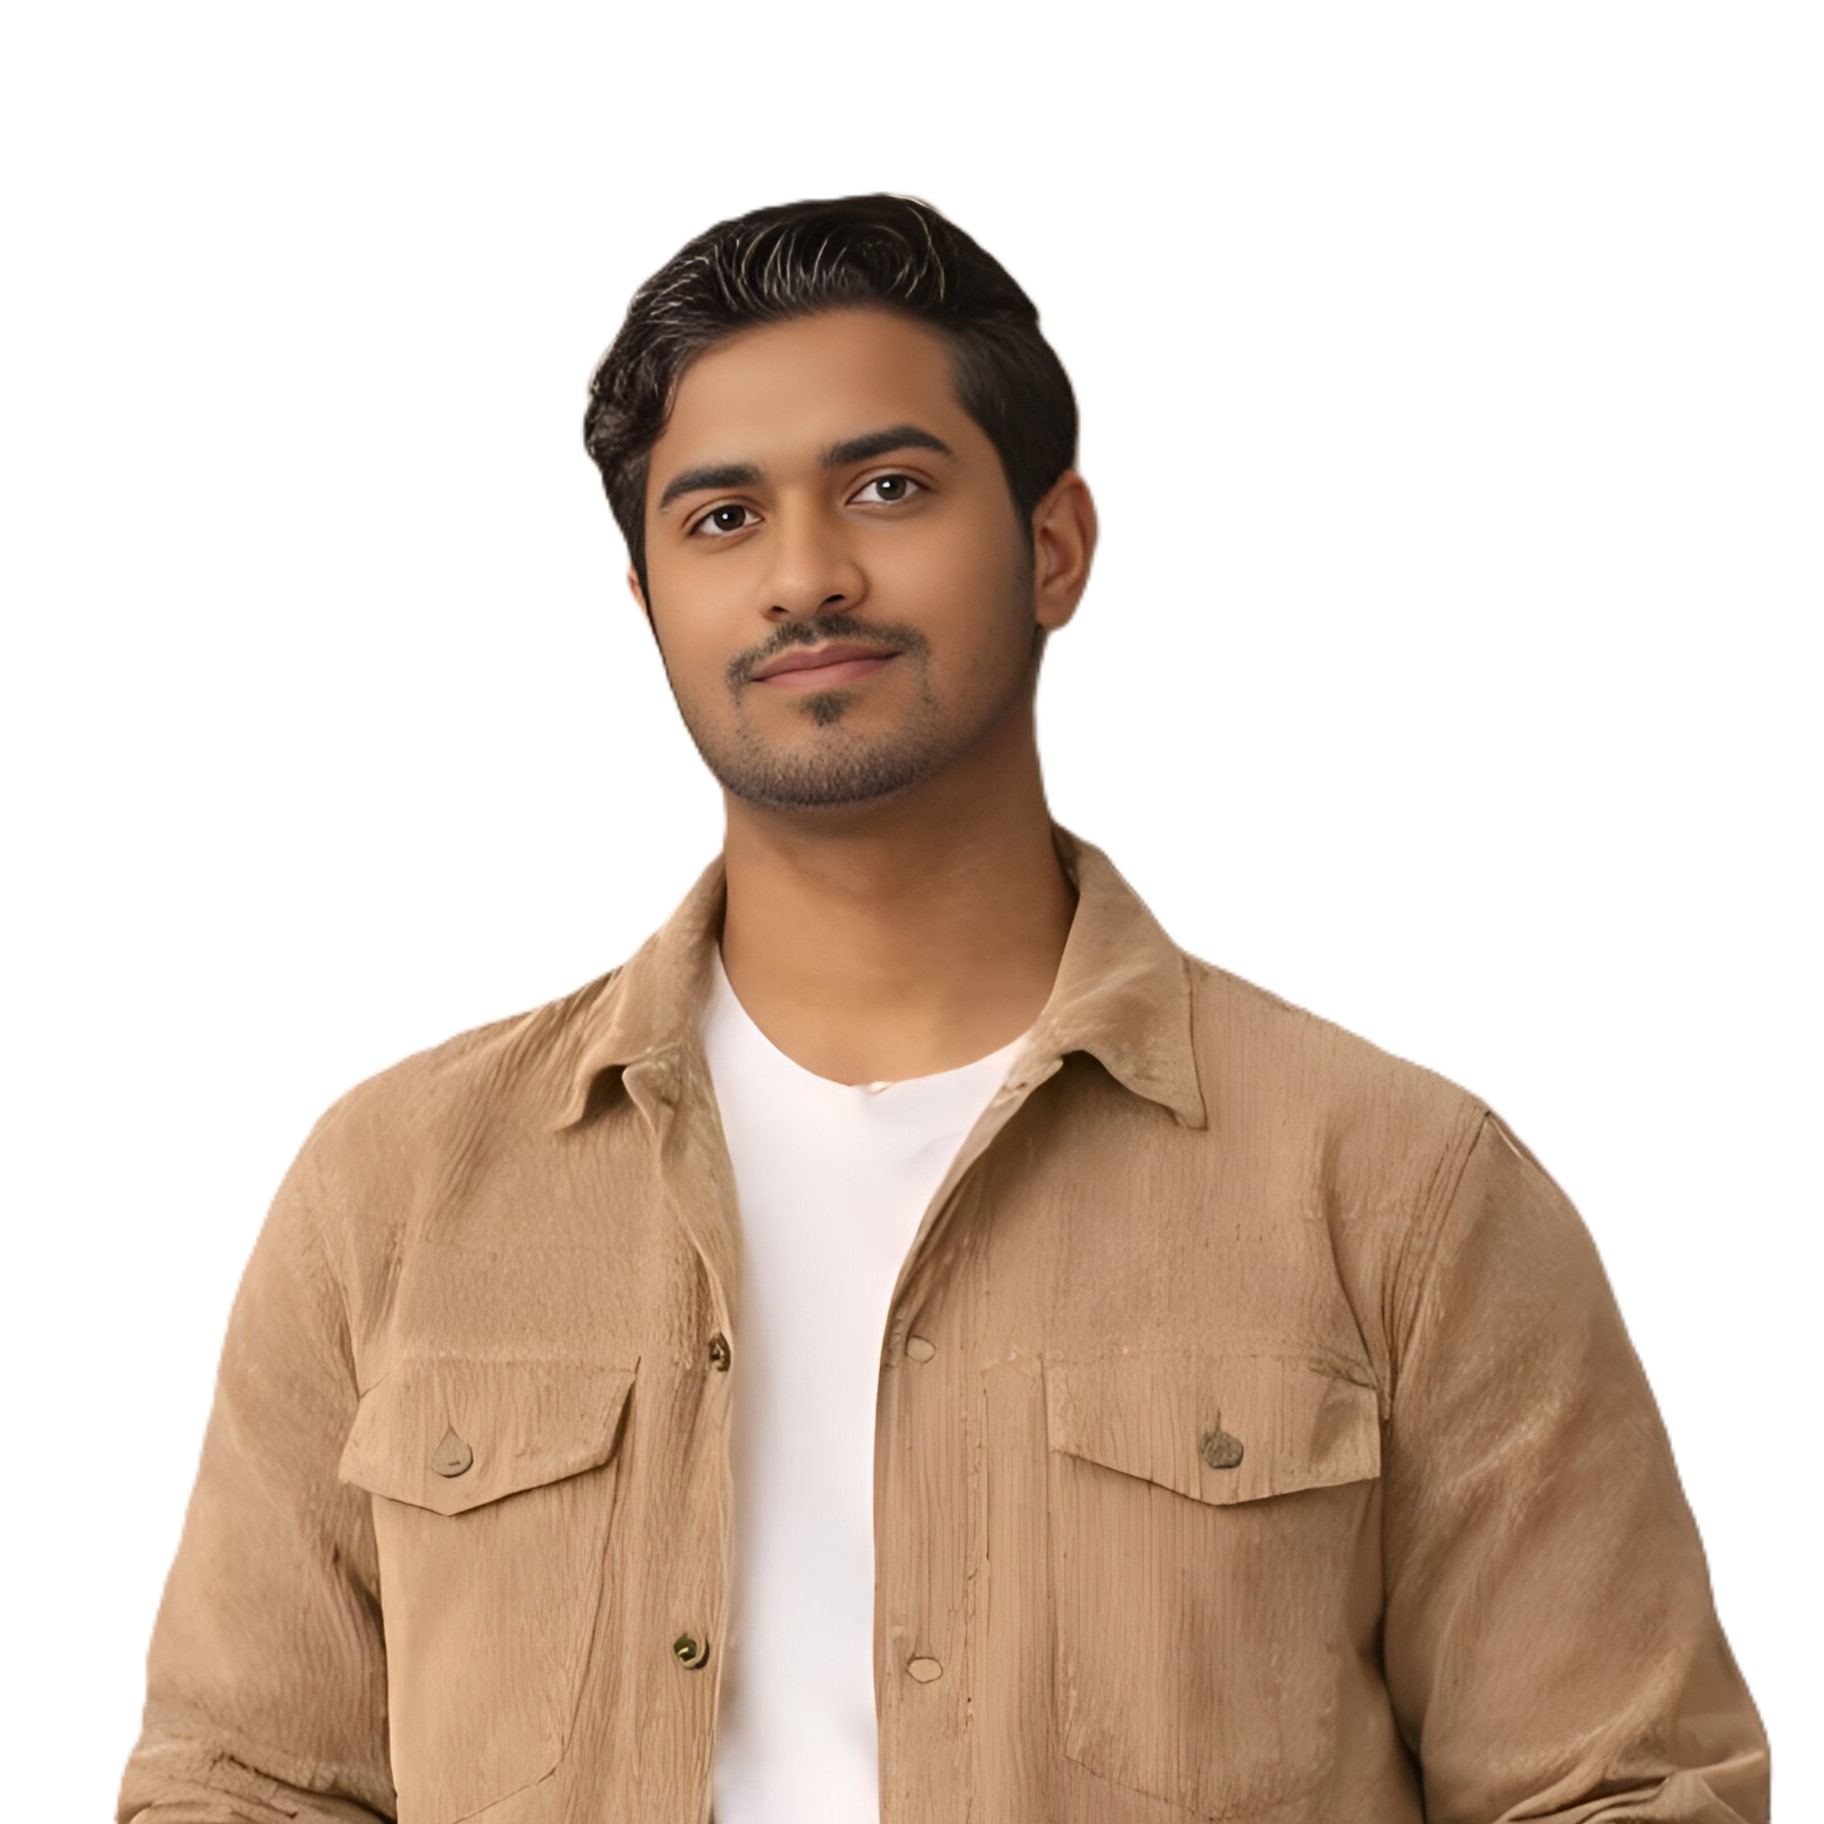
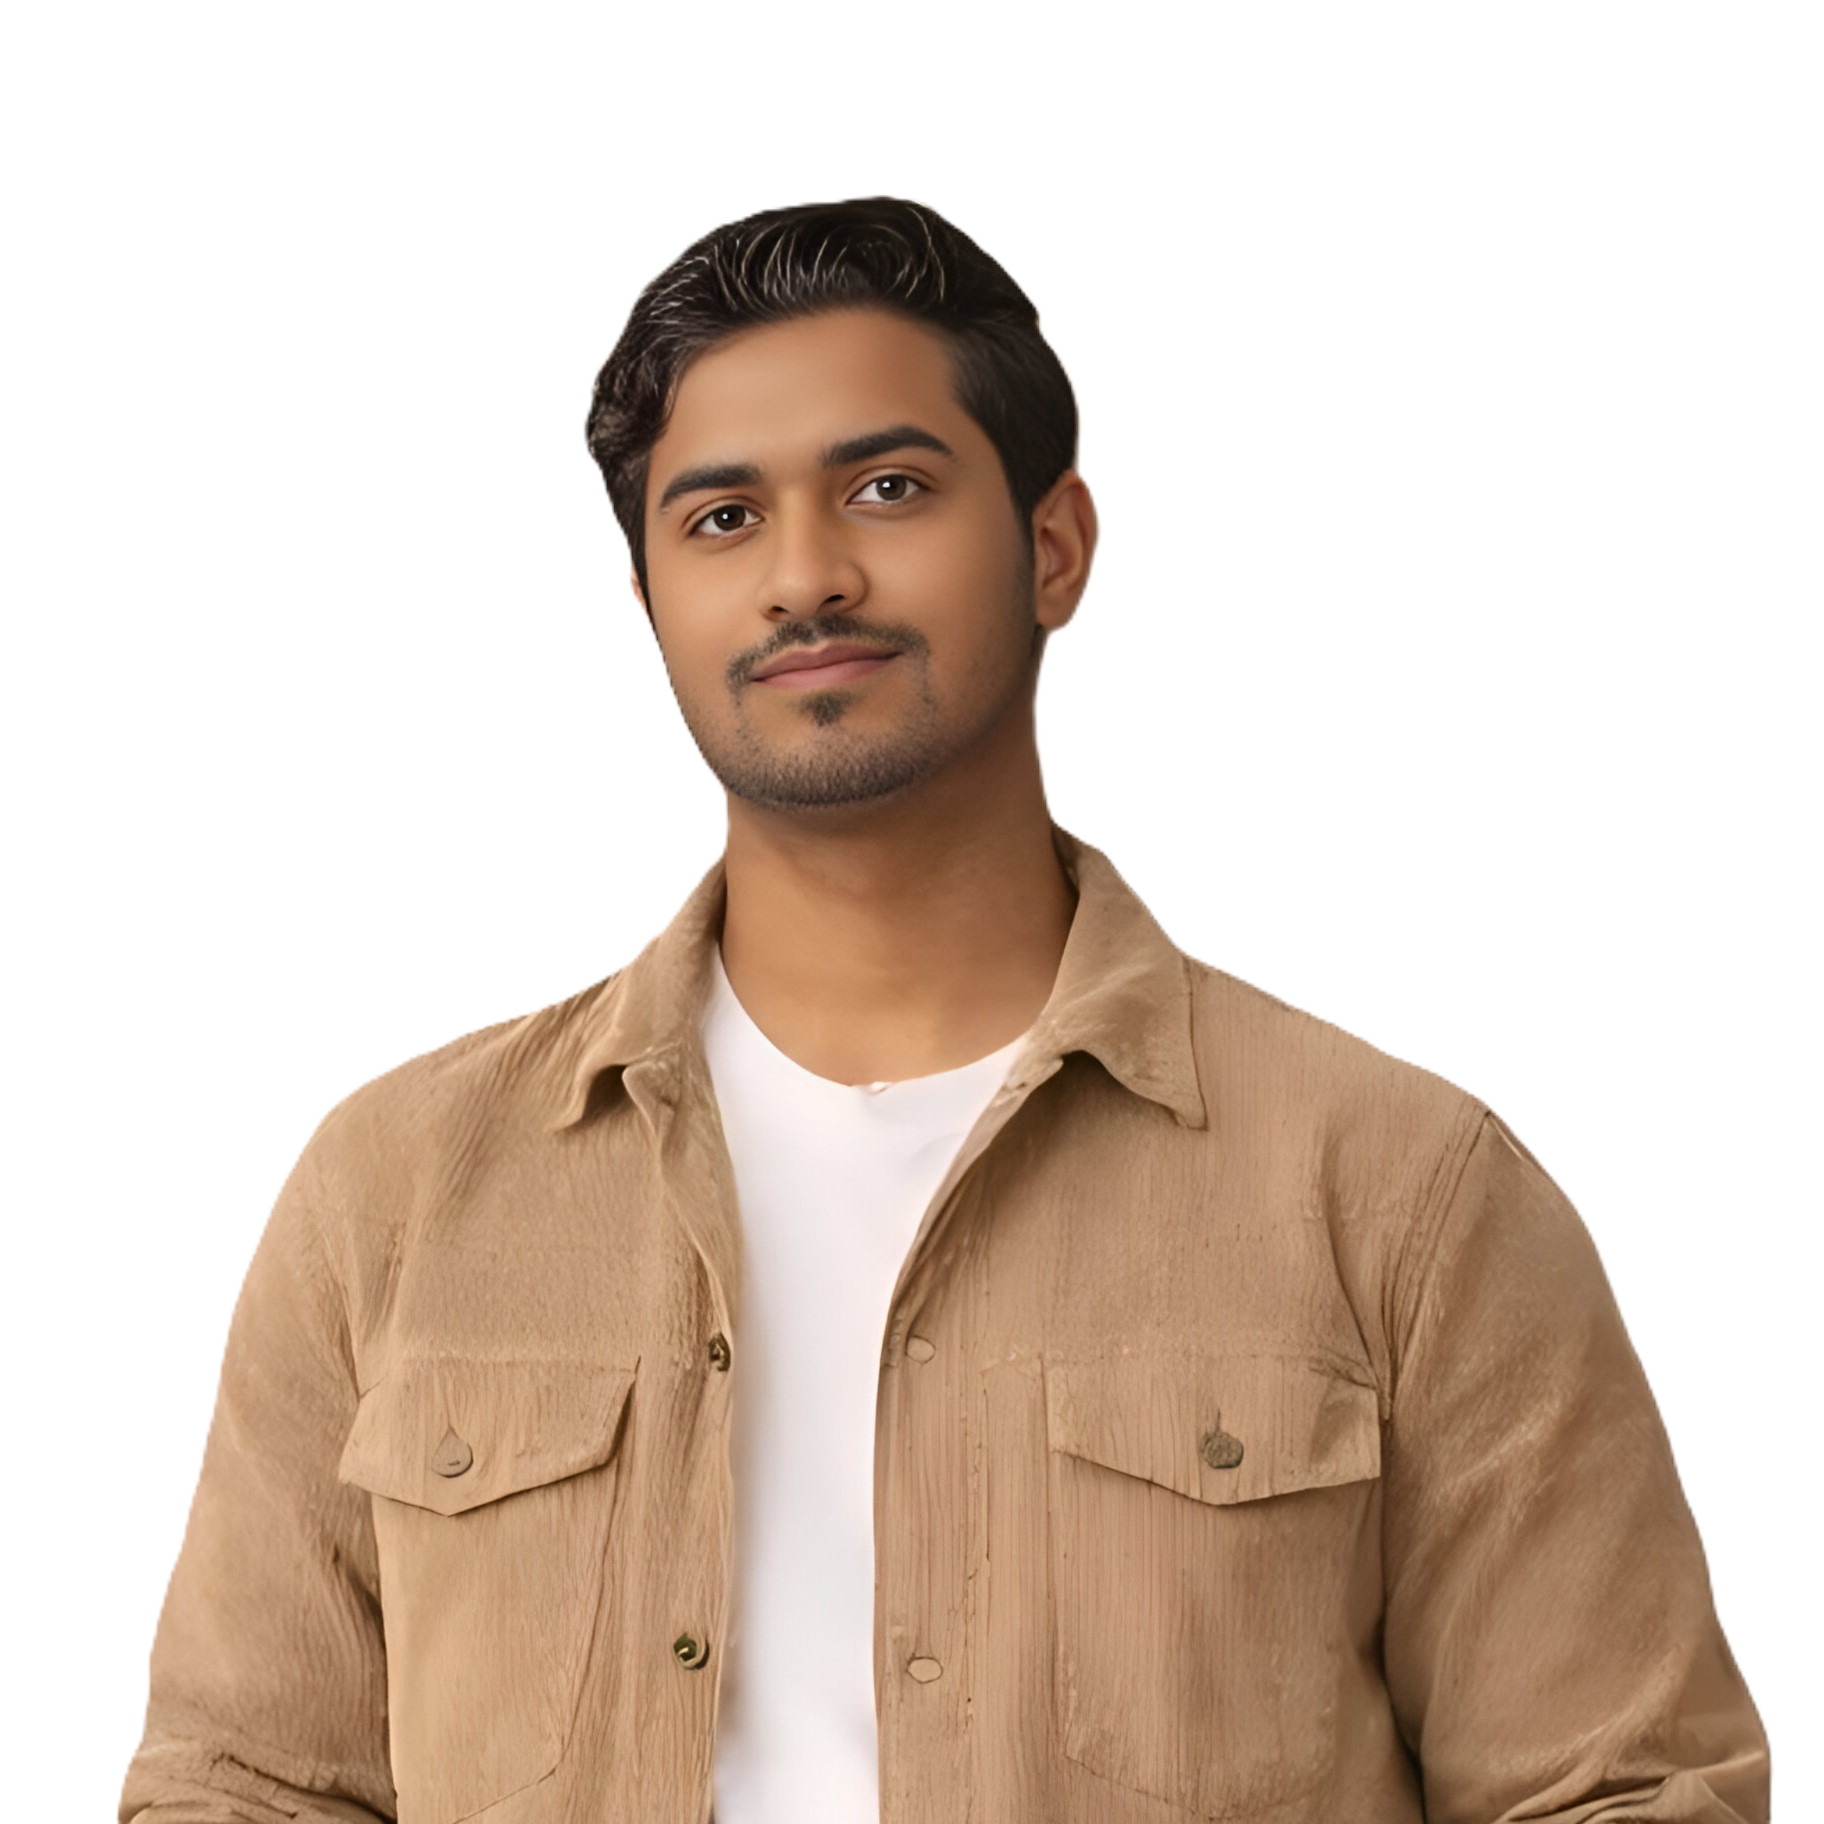
Fixing UI and the Projects

diff --git a/index.html b/index.html
@@ -5,7 +5,7 @@
     <meta name="viewport" content="width=device-width,initial-scale=1.0" />
     <meta name="description" content="Karan Kumar — Full-Stack Web Developer" />
     <title>Karan Kumar</title>
-    <link rel="icon" type="image/png" href="assets/logo.png" />
+    <link rel="icon" type="image/png" href="assets/favicon.png" />
     <link rel="preconnect" href="https://fonts.googleapis.com" />
     <link rel="preconnect" href="https://fonts.gstatic.com" crossorigin />
     <link
